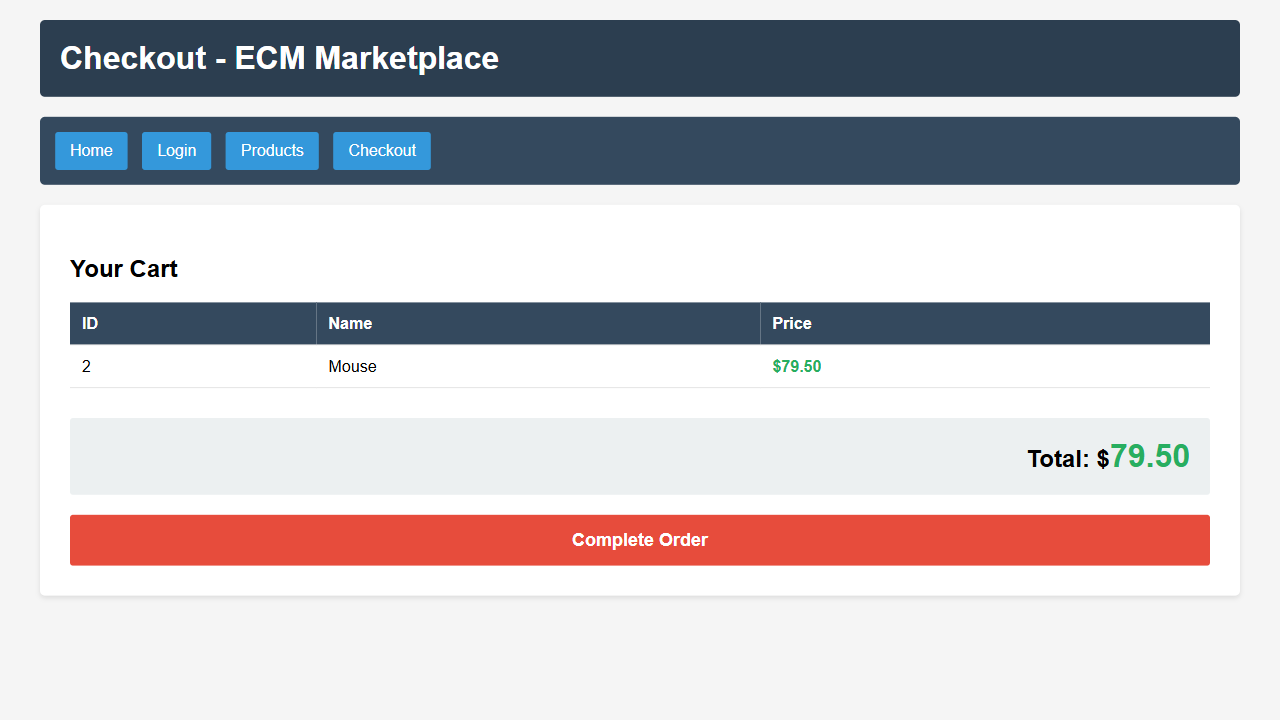
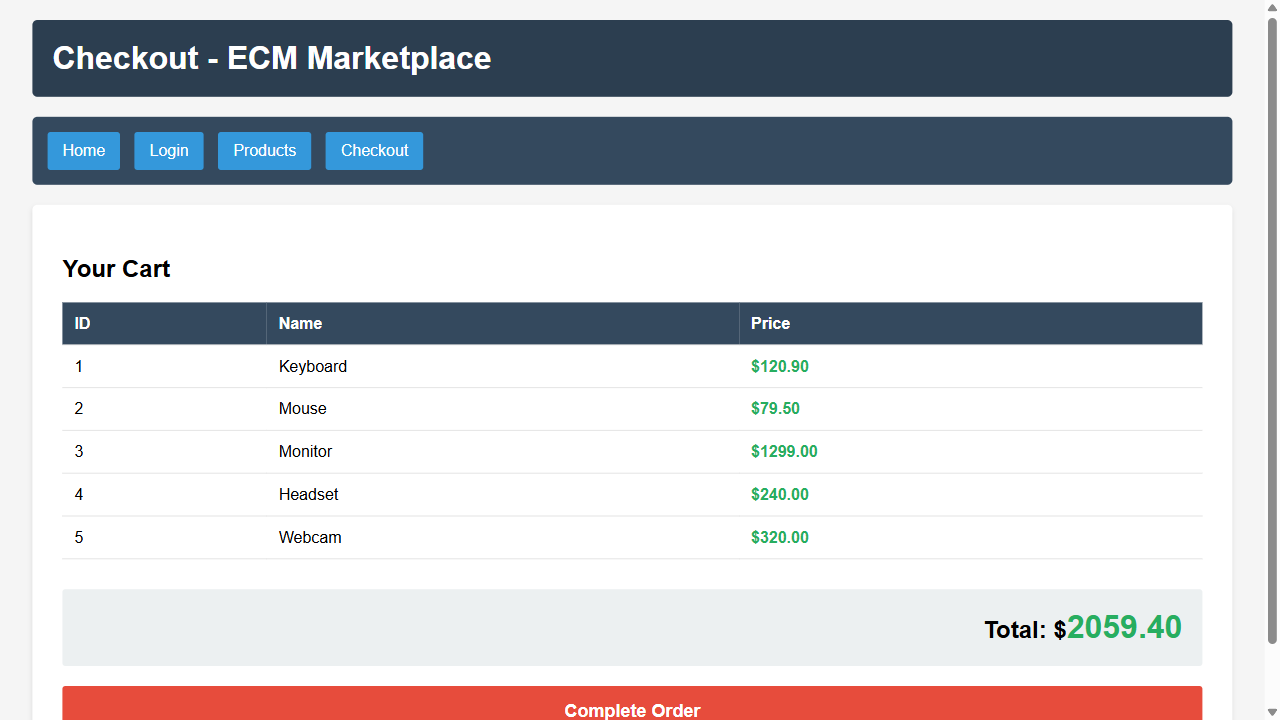
checkout correto

diff --git a/playwright-report/index.html b/playwright-report/index.html
@@ -87,4 +87,4 @@ Error generating stack: `+l.message+`
     <div id='root'></div>
   </body>
 </html>
[2 lines of base64/hex data omitted]

diff --git a/tests/FrontEnd/checkout.spec.ts b/tests/FrontEnd/checkout.spec.ts
@@ -19,23 +19,92 @@ test.describe.parallel('checkout', () => {
         await page.locator('#password').fill('secret123');
         const btnLogin = await page.locator('#btnLogin').isDisabled();
         if (btnLogin === true) {
-            console.log('O botão de login está desabilitado, verifique os campos de preenchimento');
+            console.log('O botão de login está desabilitado');
         }
         else {
             await page.locator('#btnLogin').click();
         }
-        const adicionar = await page.locator('[data-id="2"]').isDisabled();
-        if (adicionar === true) {
-            console.log('O botão de adicionar ao carrinho está desabilitado, verifique os campos de preenchimento');
+
+        let idProduto = [];
+        let nomeProduto = [];
+        let precoProduto = [];
+        let id = 0;
+        let ids = [1, 2, 3, 4, 5];
+        let cartCount = 0;
+
+        for (let i = 0; i < ids.length; i++) {
+            id = ids[i];
+
+            if(await page.locator(`[data-id="${id}"]`).isDisabled()) {
+                console.log(`O botão de adicionar ao carrinho do produto com ID ${id} está desabilitado!`);
+            }
+            
+            switch (id) {
+                case 1:
+                    await page.click(`[data-id="${id}"]`);
+                    idProduto.push(id);
+                    nomeProduto.push('Keyboard');
+                    precoProduto.push(120.90);
+                    cartCount = 1;
+                    break;
+
+                case 2:
+                    await page.click(`[data-id="${id}"]`);
+                    idProduto.push(id);
+                    nomeProduto.push('Mouse');
+                    precoProduto.push(79.50);
+                    cartCount = 1;    
+                    break;
+
+                case 3:
+                    await page.click(`[data-id="${id}"]`);
+                    idProduto.push(id);
+                    nomeProduto.push('Monitor');
+                    precoProduto.push(1299.00);
+                    break; 
+
+                case 4:
+                    await page.click(`[data-id="${id}"]`);
+                    idProduto.push(id);
+                    nomeProduto.push('Headset');
+                    precoProduto.push(240.00);
+                    cartCount = 1;
+                    break;
+
+                case 5:
+                    await page.click(`[data-id="${id}"]`);
+                    idProduto.push(id);
+                    nomeProduto.push('Webcam');
+                    precoProduto.push(320.00);
+                    cartCount = 1;
+                    break;
+
+                default:
+                    console.log('Id do produto não encontrado, verifique o id do produto');
+            }
         }
-        else {
-            await page.click('[data-id="2"]');
-        }
+        
         await navigationPage.checkoutPage();
         await page.screenshot({path: "Evidencias/checkout/CheckoutProdutoCorreto.png"});
-        const btnfinish = await page.locator('#btnFinish').isDisabled();
-        if (btnfinish === true) {
-            console.log('O botão de finalizar pedido está desabilitado, verifique os campos de preenchimento');
+
+        let totalFinal: any = 0;
+        let precoTotal: any = 0;
+
+        for (let i = 0; i < precoProduto.length; i++) {
+             precoTotal += precoProduto[i];
+        }
+        totalFinal = await page.locator('#total').textContent();
+
+        if(precoTotal == totalFinal){
+            console.log('O valor do total está correto! \n');
+        }
+        else{
+            console.log('Existe alguma coisa errada na soma do(s) valore(s) do(s) preço(s) do(s) produto(s) \n');
+        }
+
+       const btnfinish = await page.locator('#btnFinish').isDisabled();
+       if (btnfinish === true) {
+            console.log('O botão de finalizar pedido está desabilitado');
         }
         else {
             await page.click('#btnFinish');
@@ -44,7 +113,7 @@ test.describe.parallel('checkout', () => {
         await page.screenshot({path: "Evidencias/checkout/CheckoutProdutoBotaoCompleteOrder.png"});
     });
 
-    test('cheout Unauthenticated', async ({ page }) => {
+   /* test('cheout Unauthenticated', async ({ page }) => {
         const navigationPage = new NavegationPage(page);
         await navigationPage.productsPage();
         await page.click('[data-id="2"]');
@@ -53,7 +122,7 @@ test.describe.parallel('checkout', () => {
         await navigationPage.checkoutPage();
         const btnfinish = await page.locator('#btnFinish').isDisabled();
         if (btnfinish === true) {
-            console.log('O botão de finalizar pedido está desabilitado, verifique os campos de preenchimento');
+            console.log('O botão de finalizar pedido está desabilitado');
         }
         else {
             await page.click('#btnFinish');
@@ -62,6 +131,6 @@ test.describe.parallel('checkout', () => {
         //await page.locator('#btnFinish').click();
         await page.screenshot({path: "Evidencias/checkout/CheckoutProdutoBotaoCompleteOrder2.png"});
         
-    });
+    }); */
 
 });

diff --git a/tests/FrontEnd/products.spec.ts b/tests/FrontEnd/products.spec.ts
@@ -28,7 +28,7 @@ test.describe.parallel('Products', () => {
     test('products pesquisa pelo produto que não existe no catalogo', async ({ page }) => {
         const navigationPage = new NavegationPage(page);
         await navigationPage.productsPage();
-        await page.getByPlaceholder('Search products by name...').fill('banha')
+        await page.getByPlaceholder('Search products by name...').fill('banha de porco')
         await page.screenshot({path: "Evidencias/Products/PesquisaProdutoNaoExisteCatalogo.png"});
     });
 

diff --git a/playwright.config.ts b/playwright.config.ts
@@ -16,7 +16,7 @@ export default defineConfig({
   retries: 1,
   reporter: [['html'], ['junit', {outputFile: 'results.xml'}]],
   
-  globalTimeout: 600,
+  //globalTimeout: 600,
   fullyParallel: true,
   
   use: {
